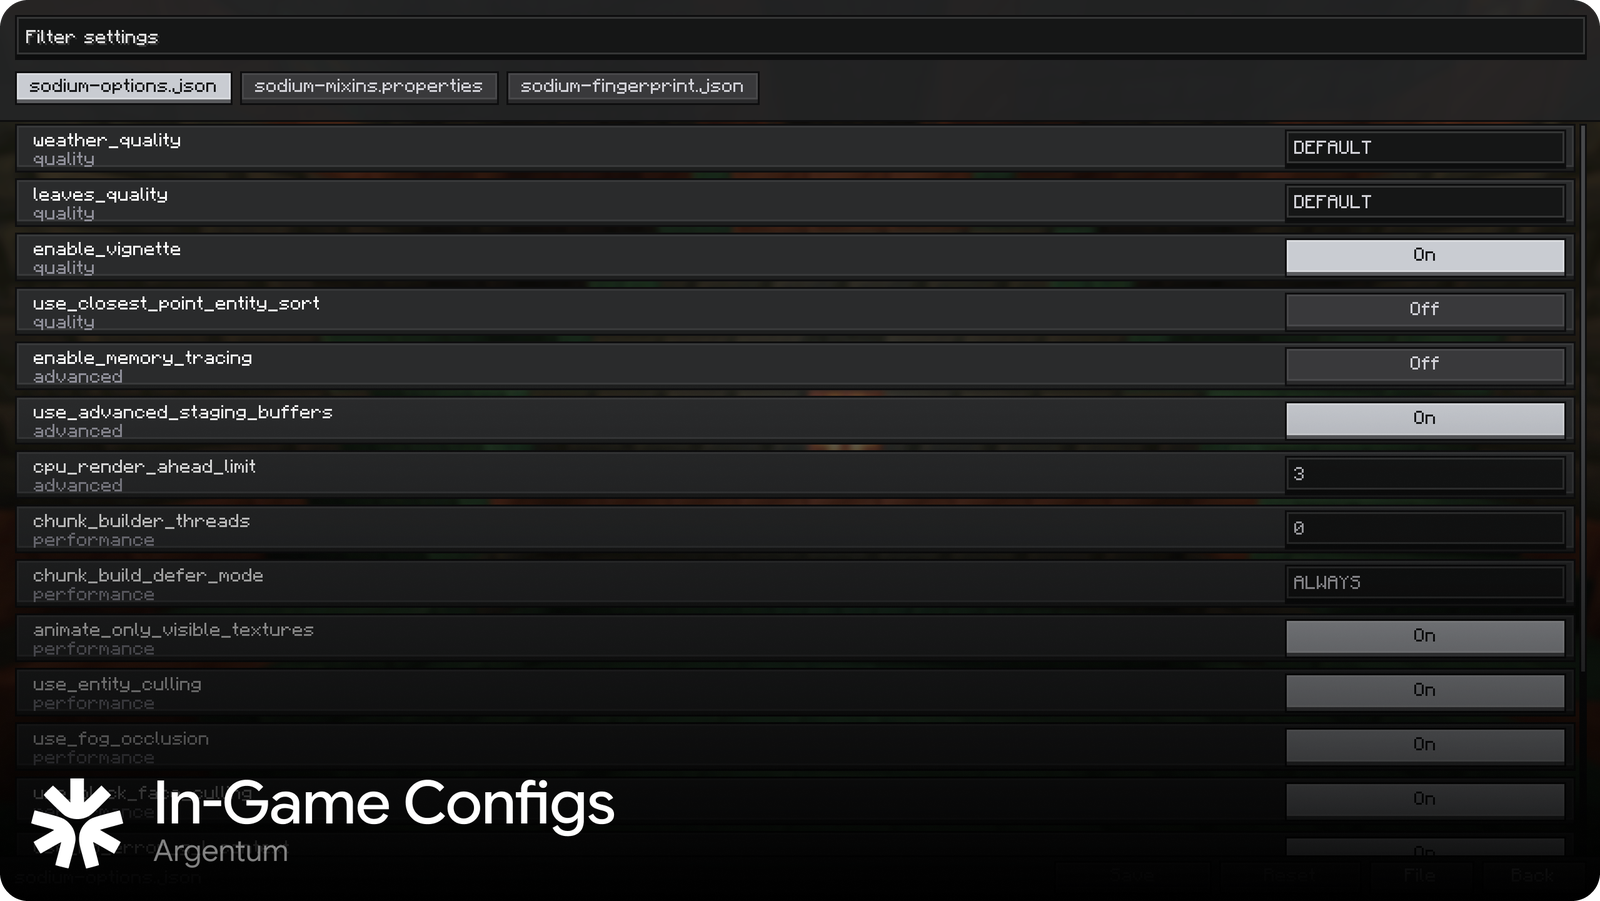
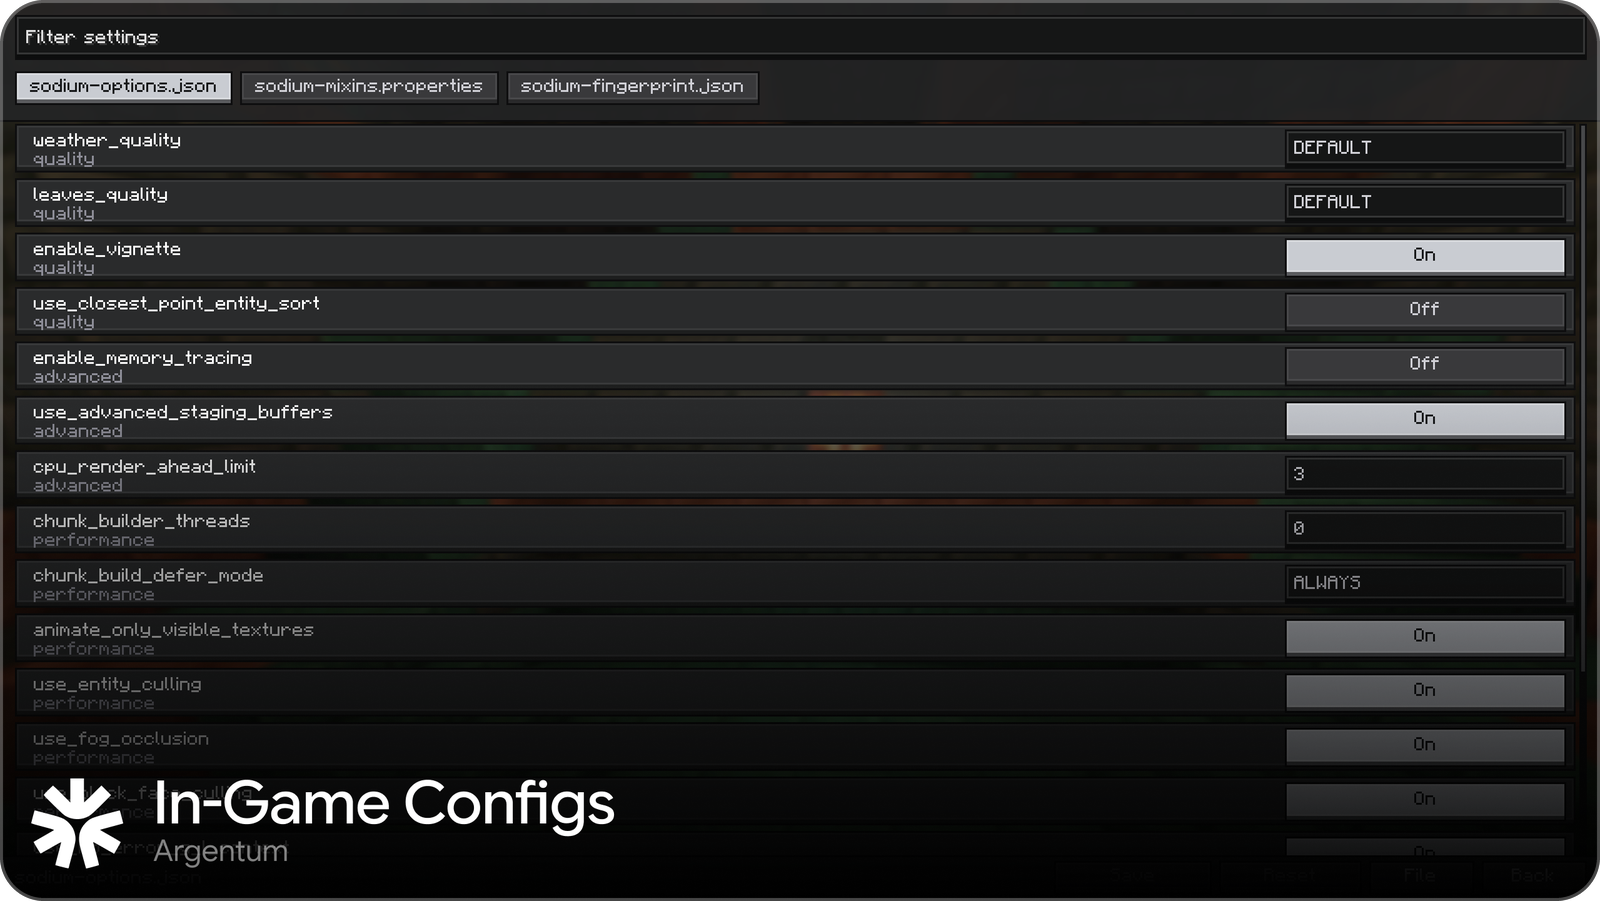
README: visible rounded corners (bigger radius, light border), images in a grid instead of a table

Changed region(s): [[0.0, 0.9634, 1.0, 1.0], [0.0, 0.0, 1.0, 0.0311]]

diff --git a/README.md b/README.md
@@ -19,26 +19,16 @@ A broken mod can no longer take the whole game down with it.
 
 </div>
 
-![Mod catalog](docs/assets/preview-catalog.png)
+<p align="center"><img src="docs/assets/preview-catalog.png" alt="Mod catalog" width="98%"></p>
 
-<table>
-  <tr>
-    <td width="50%"><img src="docs/assets/preview-failsafe.png" alt="Fail-safe startup"></td>
-    <td width="50%"><img src="docs/assets/preview-preflight.png" alt="Preflight check"></td>
-  </tr>
-  <tr>
-    <td align="center"><b>Fail-safe startup</b><br>a mod that crashes is disabled, the game keeps running</td>
-    <td align="center"><b>Preflight check</b><br>a change that cannot start is refused with a readable reason</td>
-  </tr>
-  <tr>
-    <td width="50%"><img src="docs/assets/preview-hot-reload.png" alt="Hot reload"></td>
-    <td width="50%"><img src="docs/assets/preview-configs.png" alt="In-game configs"></td>
-  </tr>
-  <tr>
-    <td align="center"><b>Hot reload</b><br>changes are applied with one seamless restart</td>
-    <td align="center"><b>In-game configs</b><br>edit mod settings without leaving the game</td>
-  </tr>
-</table>
+<p align="center">
+  <img src="docs/assets/preview-failsafe.png" alt="Fail-safe startup" width="49%">
+  <img src="docs/assets/preview-preflight.png" alt="Preflight check" width="49%">
+</p>
+<p align="center">
+  <img src="docs/assets/preview-hot-reload.png" alt="Hot reload" width="49%">
+  <img src="docs/assets/preview-configs.png" alt="In-game configs" width="49%">
+</p>
 
 ## What makes it different from Fabric Loader
 
